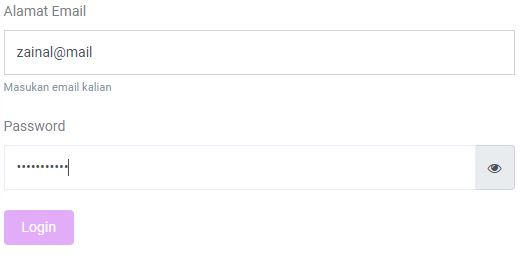
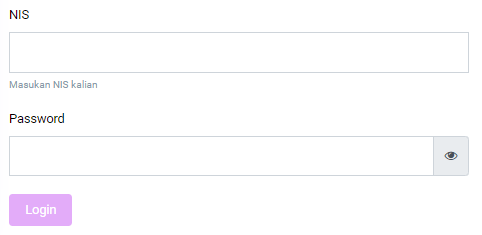
perubahan di alaman petunjuk

diff --git a/resources/views/home_page/Petunjuk.blade.php b/resources/views/home_page/Petunjuk.blade.php
@@ -23,7 +23,7 @@
                                 <p>Klik tombol belajar untuk memuali belajar</p>
                             </td>
                         </tr>
-                        <tr>
+                        {{-- <tr>
                             <td>
                                 <img src="{{ asset('image/petunjuk/petunjuk penggunaan/menu login.JPG') }}"
                                     alt="petunjuk 1" class="img-fluid">
@@ -31,14 +31,14 @@
                             <td>
                                 <p>kalian akan diarahkan ke menu login dimana kalian akan login sebagai siswa atau guru</p>
                             </td>
-                        </tr>
+                        </tr> --}}
                         <tr>
                             <td>
                                 <img src="{{ asset('image/petunjuk/petunjuk penggunaan/form login.JPG') }}"
                                     alt="petunjuk 1" class="img-fluid">
                             </td>
                             <td>
-                                <p>Isi email dan password kalian sesuai dengan akun yang telah diberikan</p>
+                                <p>Isi NIS dan password kalian sesuai dengan akun yang telah diberikan</p>
                             </td>
                         </tr>
                         <tr>
